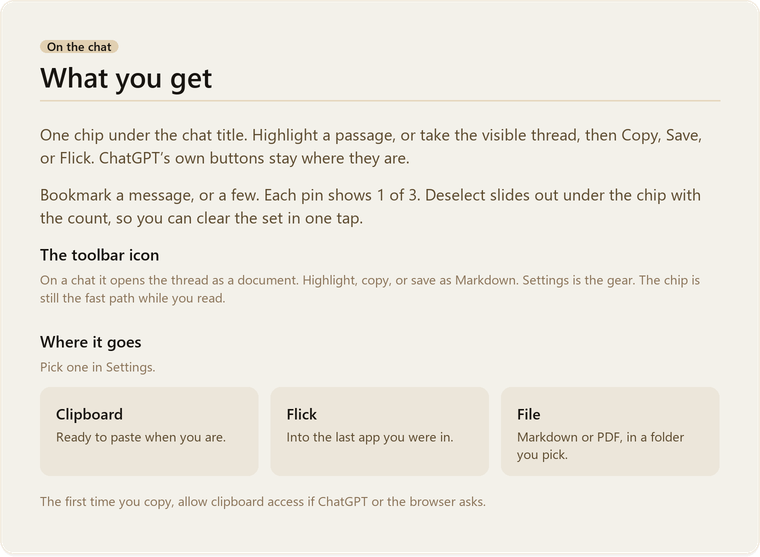
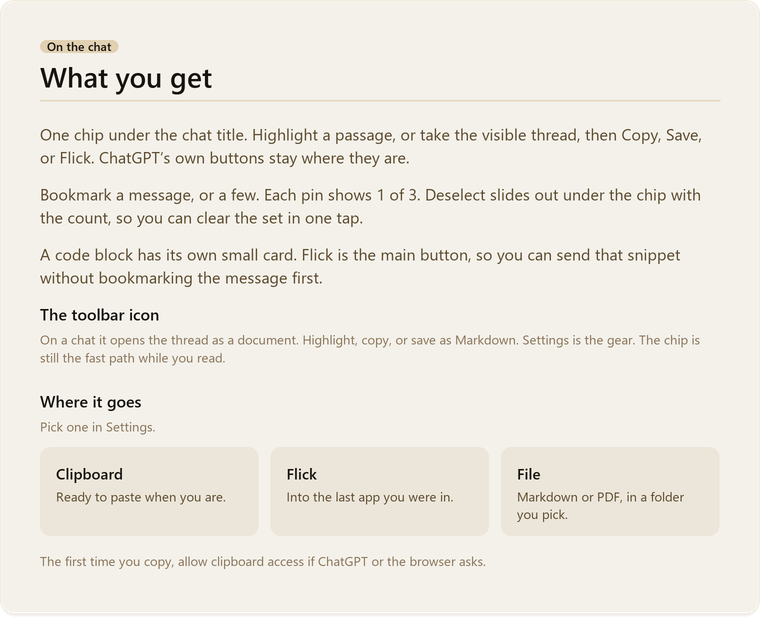
People were bookmarking a whole message just to Flick one code snippet from the chip. Give each code block its own small card with Flick as the main action so that extra step is gone, while notes, bookmarks, and the chip stay as they were.

diff --git a/testbed/mock-chatgpt.html b/testbed/mock-chatgpt.html
@@ -876,11 +876,51 @@ Got it — copper lantern. Longer assistant reply for DOM scrape:
         if (threadActions[threadActions.length - 1] !== "paste-thread") {
           throw new Error("Flick should be rightmost on the thread chip, got " + threadActions.join(","));
         }
-        if (ui.querySelector('[data-pasteflick="pin"][data-kind="block"]')) {
-          throw new Error("inside cards should not appear");
-        }
         if (ui.querySelector('[data-pasteflick="pin"][data-kind="link"]')) {
           throw new Error("link chips should not appear");
+        }
+        const codePins = ui.querySelectorAll('[data-pasteflick="pin"][data-kind="block"]');
+        const pythonPre = document.querySelector('[data-message-id="msg-assistant-1"] > pre');
+        const plainPre = document.querySelector("#code-plain");
+        const mermaidPre = document.querySelector("#flow-chart pre");
+        const namedDoc = document.querySelector("#named-doc");
+        if (!pythonPre || !plainPre) throw new Error("fixture code blocks missing");
+        const codePin = PasteFlick.pinFor(pythonPre);
+        if (!codePin || codePin.getAttribute("data-block-kind") !== "code") {
+          throw new Error("code blocks should get their own Flick card");
+        }
+        if (!PasteFlick.pinFor(plainPre)) {
+          throw new Error("plain code fences should get a Flick card too");
+        }
+        if (codePins.length !== 2) {
+          throw new Error("only code should get inside cards, got " + codePins.length);
+        }
+        if (Array.from(codePins).some((pin) => pin.getAttribute("data-block-kind") !== "code")) {
+          throw new Error("non-code inside cards should not appear");
+        }
+        const copyCode = codePin.querySelector('[data-pasteflick="copy-block"]');
+        const pasteCode = codePin.querySelector('[data-pasteflick="paste-block"]');
+        const saveCode = codePin.querySelector('[data-pasteflick="save-block"]');
+        if (!copyCode || !pasteCode || !saveCode) {
+          throw new Error("code card needs Copy, Save, and Flick");
+        }
+        if (pasteCode.title !== "Flick this code.") {
+          throw new Error("unexpected code flick tooltip: " + pasteCode.title);
+        }
+        if (!pasteCode.classList.contains("is-primary")) {
+          throw new Error("Flick should be the primary action on a code card");
+        }
+        const codeActions = Array.from(
+          codePin.querySelectorAll('[data-pasteflick="actions"] [data-pasteflick]'),
+        ).map((el) => el.getAttribute("data-pasteflick"));
+        if (codeActions[codeActions.length - 1] !== "paste-block") {
+          throw new Error("Flick should be rightmost on a code card, got " + codeActions.join(","));
+        }
+        if (mermaidPre && PasteFlick.pinFor(mermaidPre)) {
+          throw new Error("flowcharts should not get a code card");
+        }
+        if (namedDoc && PasteFlick.pinFor(namedDoc)) {
+          throw new Error("documents should not get their own cards");
         }
         if (ui.querySelector('[data-pasteflick="copy-message"], [data-pasteflick="paste-message"], [data-pasteflick="save-message"]')) {
           throw new Error("message pins should be bookmark-only");
@@ -1529,8 +1569,11 @@ Got it — copper lantern. Longer assistant reply for DOM scrape:
         await sleep(80);
         PasteFlick.placeAll();
         await settlePins();
-        if (PasteFlick.pinFor(assistant.querySelector("pre")) || PasteFlick.pinFor(assistant.querySelector("#named-doc"))) {
-          throw new Error("code and documents should not get their own cards");
+        if (PasteFlick.pinFor(assistant.querySelector("#named-doc"))) {
+          throw new Error("documents should not get their own cards");
+        }
+        if (!PasteFlick.pinFor(assistant.querySelector("pre"))) {
+          throw new Error("code should keep its Flick card after scroll");
         }
 
         const threadElForScroll = document.querySelector(".thread");

diff --git a/extension/pasteflick.js b/extension/pasteflick.js
@@ -1886,6 +1886,16 @@
     return outermost(out);
   }
 
+  function codeFencesIn(messageEl) {
+    return contentBlocks(messageEl)
+      .filter((el) => {
+        if (isFileTarget(el) || isInlineLink(el) || isDiagramHost(el)) return false;
+        const fragment = describeBlock(el);
+        return !!(fragment && fragment.kind === "code");
+      })
+      .slice(0, 12);
+  }
+
   function leftoverAfterFiles(messageEl, fileEls) {
     let text = String((messageEl && messageEl.innerText) || "");
     (fileEls || []).forEach((el) => {
@@ -2368,6 +2378,7 @@
     if (/selected/i.test(what)) return "Flick the selected messages.";
     if (what === "this file") return "Send this file.";
     if (what === "this link") return "Send this link.";
+    if (/code/i.test(what)) return "Flick this code.";
     return "Flick what you see.";
   }
 
@@ -3438,7 +3449,9 @@
         ? "this file"
         : isProseDocument(fragment, blockEl)
           ? (fragment && (fragment.name || fragment.title)) || "this markdown"
-          : (fragment && (fragment.title || fragment.label)) || cardLabel || "this block";
+          : fragment && fragment.kind === "code"
+            ? "this code"
+            : (fragment && (fragment.title || fragment.label)) || cardLabel || "this block";
     const pastePrimary = !!(fragment && fragment.kind === "code");
     pin = document.createElement("div");
     pin.setAttribute("data-pasteflick", "pin");
@@ -4008,6 +4021,9 @@
     if (threadPin) seen.add(threadPin);
     messageNodes().forEach((el) => {
       seen.add(ensureMessagePin(el));
+      codeFencesIn(el).forEach((blockEl) => {
+        seen.add(ensureBlockPin(blockEl));
+      });
     });
     if (rails) {
       rails.querySelectorAll('[data-pasteflick="pin"]').forEach((pin) => {
@@ -4057,6 +4073,13 @@
         ensureMessagePin(el);
         needPlace = true;
       }
+      codeFencesIn(el).forEach((blockEl) => {
+        const blockPin = pinByTarget.get(blockEl);
+        if (!blockPin || !blockPin.isConnected) {
+          ensureBlockPin(blockEl);
+          needPlace = true;
+        }
+      });
     });
     rails.querySelectorAll('[data-pasteflick="pin"]').forEach((pin) => {
       if (pin.getAttribute("data-kind") === "thread") return;

diff --git a/extension/setup.html b/extension/setup.html
@@ -235,6 +235,11 @@
             <strong>1 of 3</strong>. <strong>Deselect</strong> slides out under
             the chip with the count, and clears the set.
           </li>
+          <li>
+            A code block gets its own small card. <strong>Flick</strong> is the
+            main button, so you can send that snippet without bookmarking the
+            message first.
+          </li>
         </ul>
         <h3>From the toolbar icon</h3>
         <ul>

diff --git a/tests/test_code_flick_card.py b/tests/test_code_flick_card.py
@@ -1,0 +1,80 @@
+"""Code fences get a Flick card without bookmarking first."""
+
+from __future__ import annotations
+
+import socket
+import threading
+from http.server import ThreadingHTTPServer
+
+import pytest
+
+from testbed.verify import Handler
+
+
+def _free_port() -> int:
+    with socket.socket(socket.AF_INET, socket.SOCK_STREAM) as sock:
+        sock.bind(("127.0.0.1", 0))
+        return int(sock.getsockname()[1])
+
+
+def test_code_fence_has_flick_card() -> None:
+    playwright = pytest.importorskip("playwright.sync_api")
+    port = _free_port()
+    httpd = ThreadingHTTPServer(("127.0.0.1", port), Handler)
+    thread = threading.Thread(target=httpd.serve_forever, daemon=True)
+    thread.start()
+    try:
+        with playwright.sync_playwright() as p:
+            browser = None
+            for launcher in (
+                lambda: p.chromium.launch(channel="msedge", headless=True),
+                lambda: p.chromium.launch(channel="chrome", headless=True),
+                lambda: p.chromium.launch(headless=True),
+            ):
+                try:
+                    browser = launcher()
+                    break
+                except Exception:
+                    continue
+            if browser is None:
+                pytest.skip("No browser for Playwright")
+            page = browser.new_page(viewport={"width": 1200, "height": 800})
+            page.goto(f"http://127.0.0.1:{port}/mock-chatgpt.html", wait_until="networkidle")
+            page.wait_for_function("() => !!(window.PasteFlick && window.PasteFlick.scan)")
+            found = page.evaluate(
+                """() => {
+                  PasteFlick.scan();
+                  const python = document.querySelector('[data-message-id="msg-assistant-1"] > pre');
+                  const plain = document.querySelector('#code-plain');
+                  const mermaid = document.querySelector('#flow-chart pre');
+                  const doc = document.querySelector('#named-doc');
+                  const pythonPin = python && PasteFlick.pinFor(python);
+                  const plainPin = plain && PasteFlick.pinFor(plain);
+                  const ui = PasteFlick.dockRoot();
+                  const blocks = ui
+                    ? Array.from(ui.querySelectorAll('[data-pasteflick="pin"][data-kind="block"]'))
+                    : [];
+                  const flick = pythonPin && pythonPin.querySelector('[data-pasteflick="paste-block"]');
+                  return {
+                    python: !!(pythonPin && pythonPin.getAttribute('data-block-kind') === 'code'),
+                    plain: !!(plainPin && plainPin.getAttribute('data-block-kind') === 'code'),
+                    mermaid: !!(mermaid && PasteFlick.pinFor(mermaid)),
+                    doc: !!(doc && PasteFlick.pinFor(doc)),
+                    onlyCode: blocks.length === 2 &&
+                      blocks.every((pin) => pin.getAttribute('data-block-kind') === 'code'),
+                    flickPrimary: !!(flick && flick.classList.contains('is-primary')),
+                    flickTip: flick ? String(flick.title || '') : '',
+                  };
+                }"""
+            )
+            browser.close()
+    finally:
+        httpd.shutdown()
+
+    assert found["python"]
+    assert found["plain"]
+    assert found["onlyCode"]
+    assert found["flickPrimary"]
+    assert found["flickTip"] == "Flick this code."
+    assert not found["mermaid"]
+    assert not found["doc"]

diff --git a/readme/build.py b/readme/build.py
@@ -411,6 +411,17 @@ def build_what() -> None:
         1.45,
     )
     y += 14 * SCALE
+    y = draw_paragraph(
+        img,
+        "A code block has its own small card. Flick is the main button, so you can send that snippet without bookmarking the message first.",
+        body,
+        x,
+        y,
+        inner,
+        TEXT,
+        1.45,
+    )
+    y += 14 * SCALE
     y = draw_subhead(img, "The toolbar icon", x, y, inner)
     y += 8 * SCALE
     y = draw_paragraph(

diff --git a/testbed/verify.py b/testbed/verify.py
@@ -19,7 +19,7 @@ ROOT = Path(__file__).resolve().parents[1]
 TESTBED = Path(__file__).resolve().parent
 EXT = ROOT / "extension"
 OVERLAY = "http://127.0.0.1:8768"
-MOCK = "http://127.0.0.1:8770/mock-chatgpt.html?autotest=1&v=84"
+MOCK = "http://127.0.0.1:8770/mock-chatgpt.html?autotest=1&v=85"
 
 BROWSER_CANDIDATES = [
     Path(os.environ.get("PROGRAMFILES", r"C:\Program Files"))

diff --git a/app/__init__.py b/app/__init__.py
@@ -1,6 +1,6 @@
 """PasteFlick — selection/thread → clipboard overlay."""
 
-__version__ = "1.1.0"
+__version__ = "1.1.1"
 
 # Hush 8765, ScrollMark 8766/8767 — this product uses the next pair.
 DEFAULT_PORT = 8768

diff --git a/extension/STORE.md b/extension/STORE.md
@@ -12,7 +12,7 @@ Copy a ChatGPT highlight or visible thread, then flick it into the last Windows 
 **Detailed description:**  
 Long ChatGPT threads often only copy what’s on screen. PasteFlick copies a highlight, a message, or the visible thread, then can Flick it into the last app you were using (Windows helper).
 
-On the chat, each turn has a bookmark on the left. Select one or several — each pin shows 1 of 3. Deselect slides out under the chip with the count. Copy from PasteFlick takes that stretch among the messages currently on the page.
+On the chat, each turn has a bookmark on the left. Select one or several — each pin shows 1 of 3. Deselect slides out under the chip with the count. Copy from PasteFlick takes that stretch among the messages currently on the page. Code blocks get their own small card with Flick as the main button, so you can send a snippet without bookmarking first.
 
 The toolbar icon opens the thread as a document. Highlight, copy, or save as Markdown. Settings is the gear on that view (Flick, clipboard or file, Markdown or PDF).
 

diff --git a/README.md b/README.md
@@ -20,6 +20,8 @@ One chip under the chat title. Highlight a passage, or take the visible thread, 
 
 Bookmark a message, or a few. Each pin shows 1 of 3. Deselect slides out under the chip with the count, so you can clear the set in one tap.
 
+A code block has its own small card. Flick is the main button, so you can send that snippet without bookmarking the message first.
+
 **The toolbar icon.** On a chat it opens the thread as a document. Highlight, copy, or save as Markdown. Settings is the gear. The chip is still the fast path while you read.
 
 **Where it goes.** Pick one in Settings.
